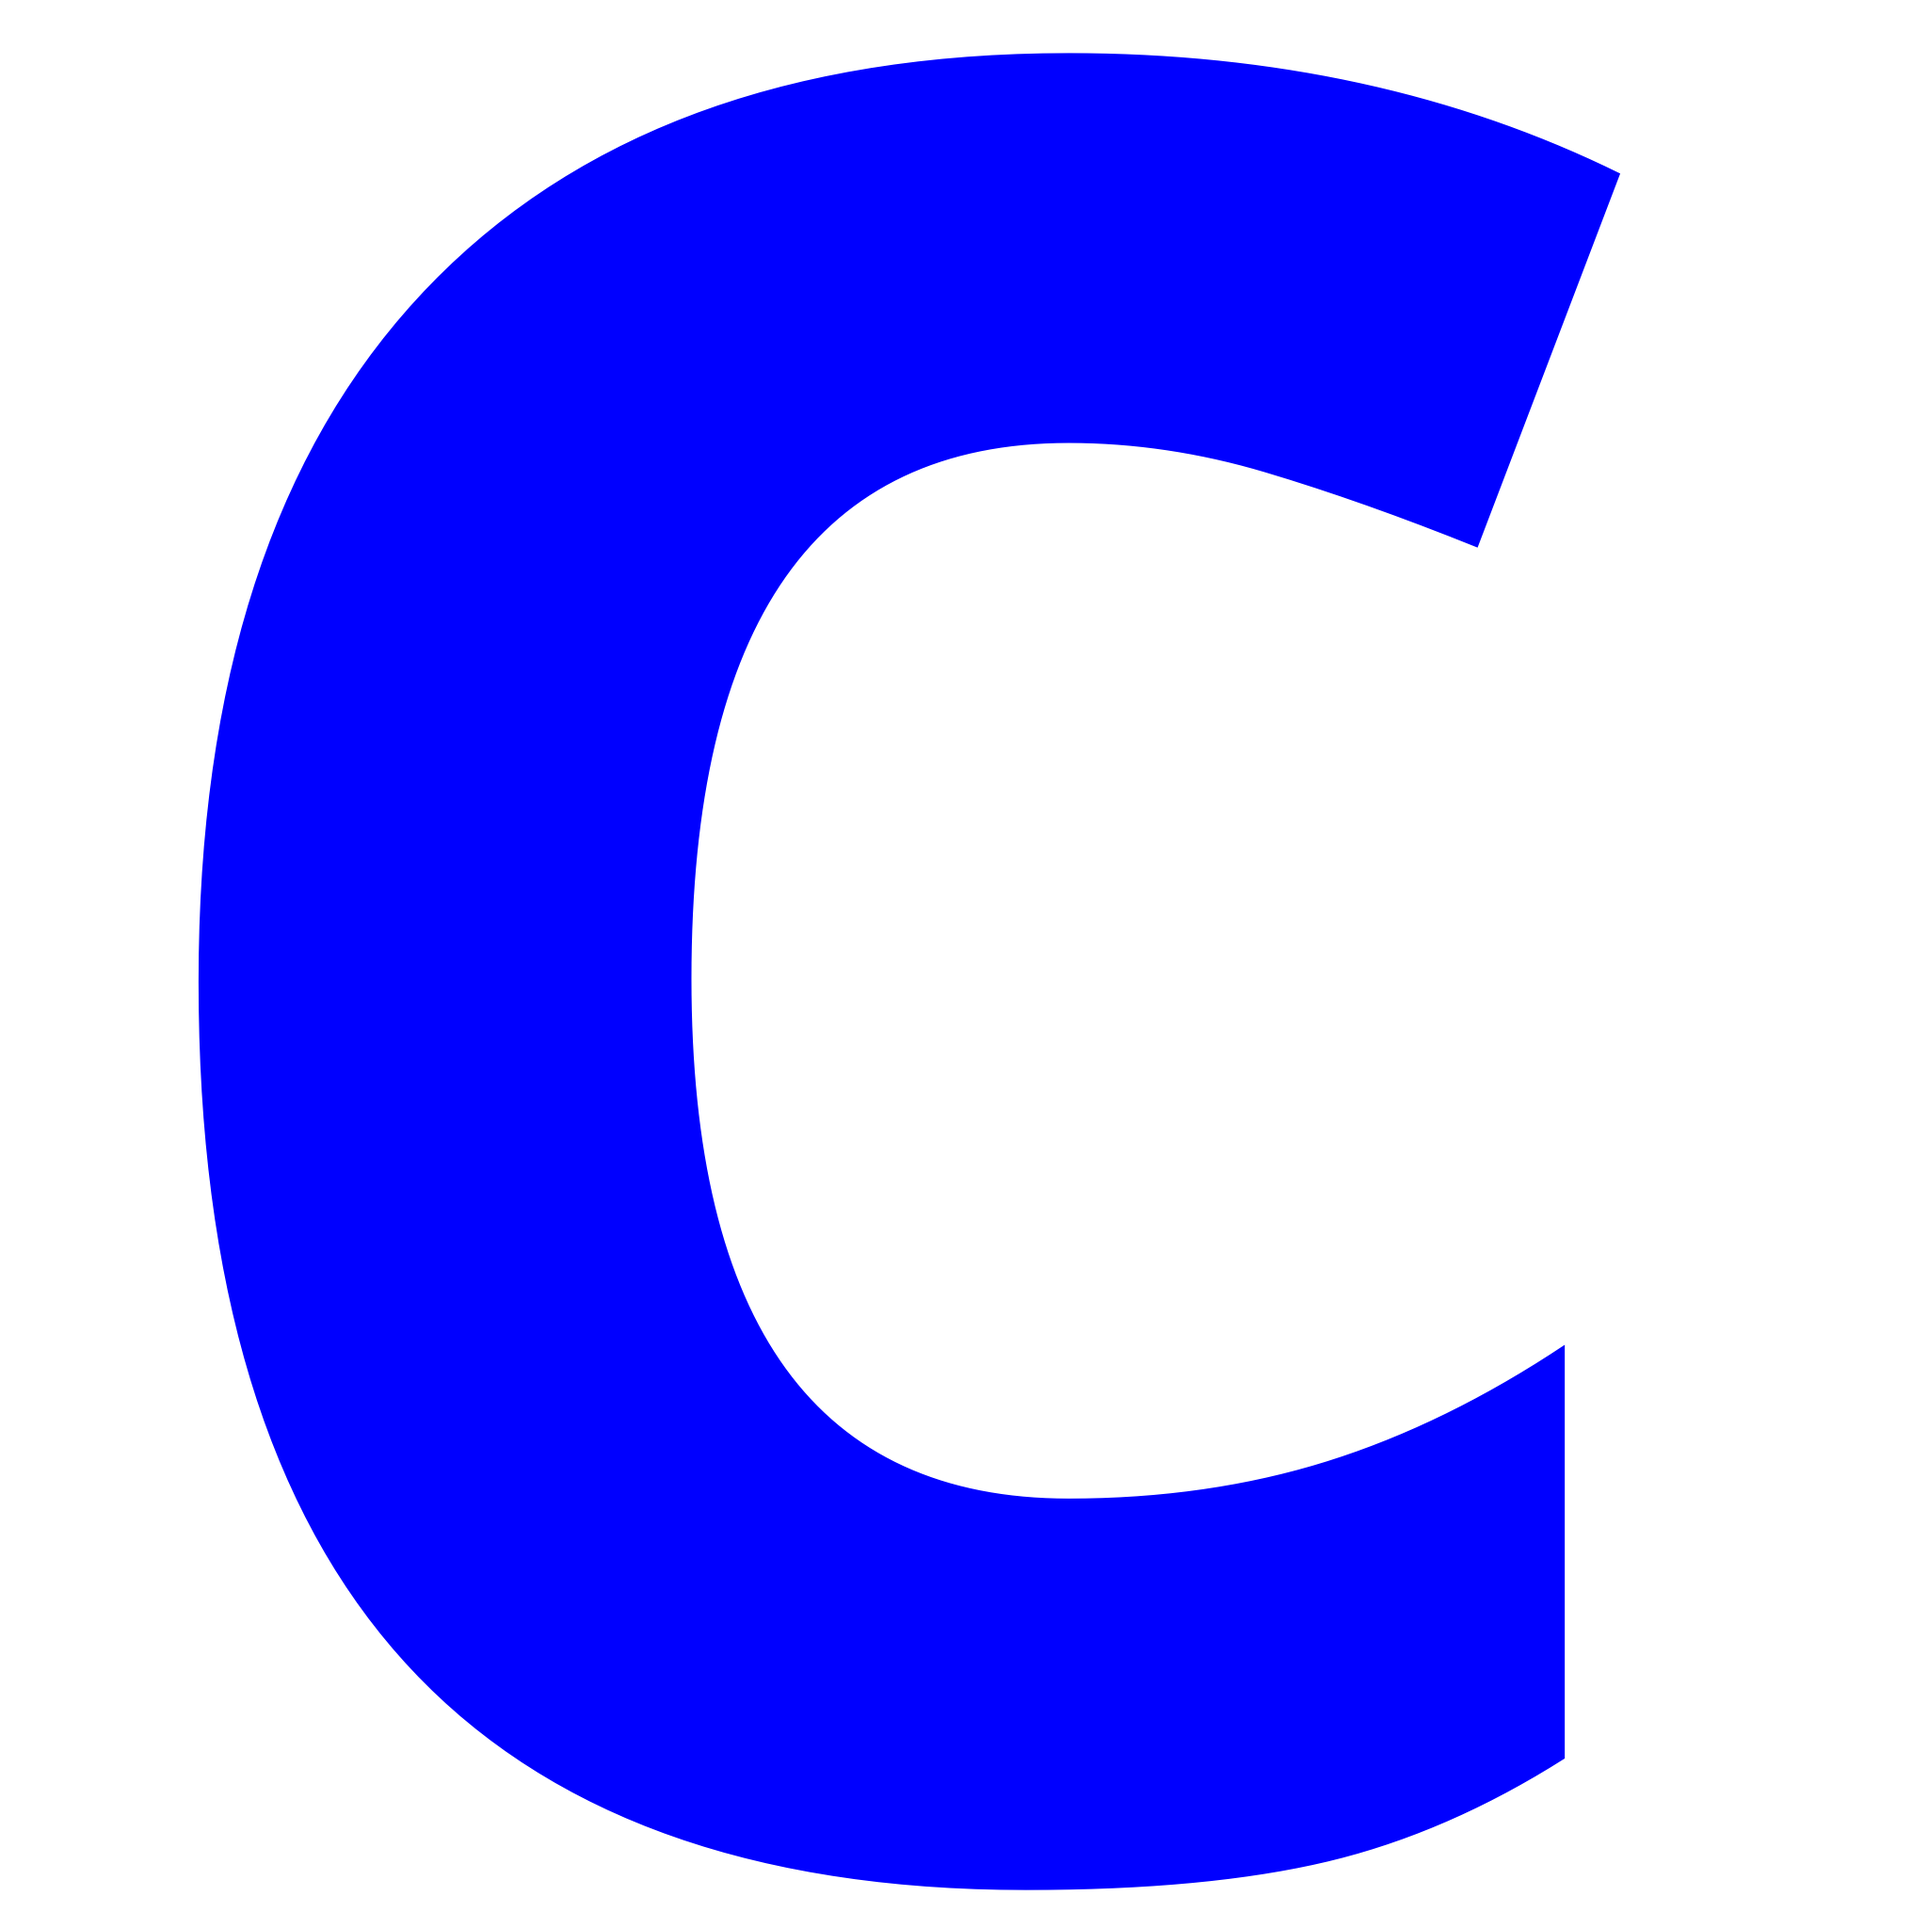
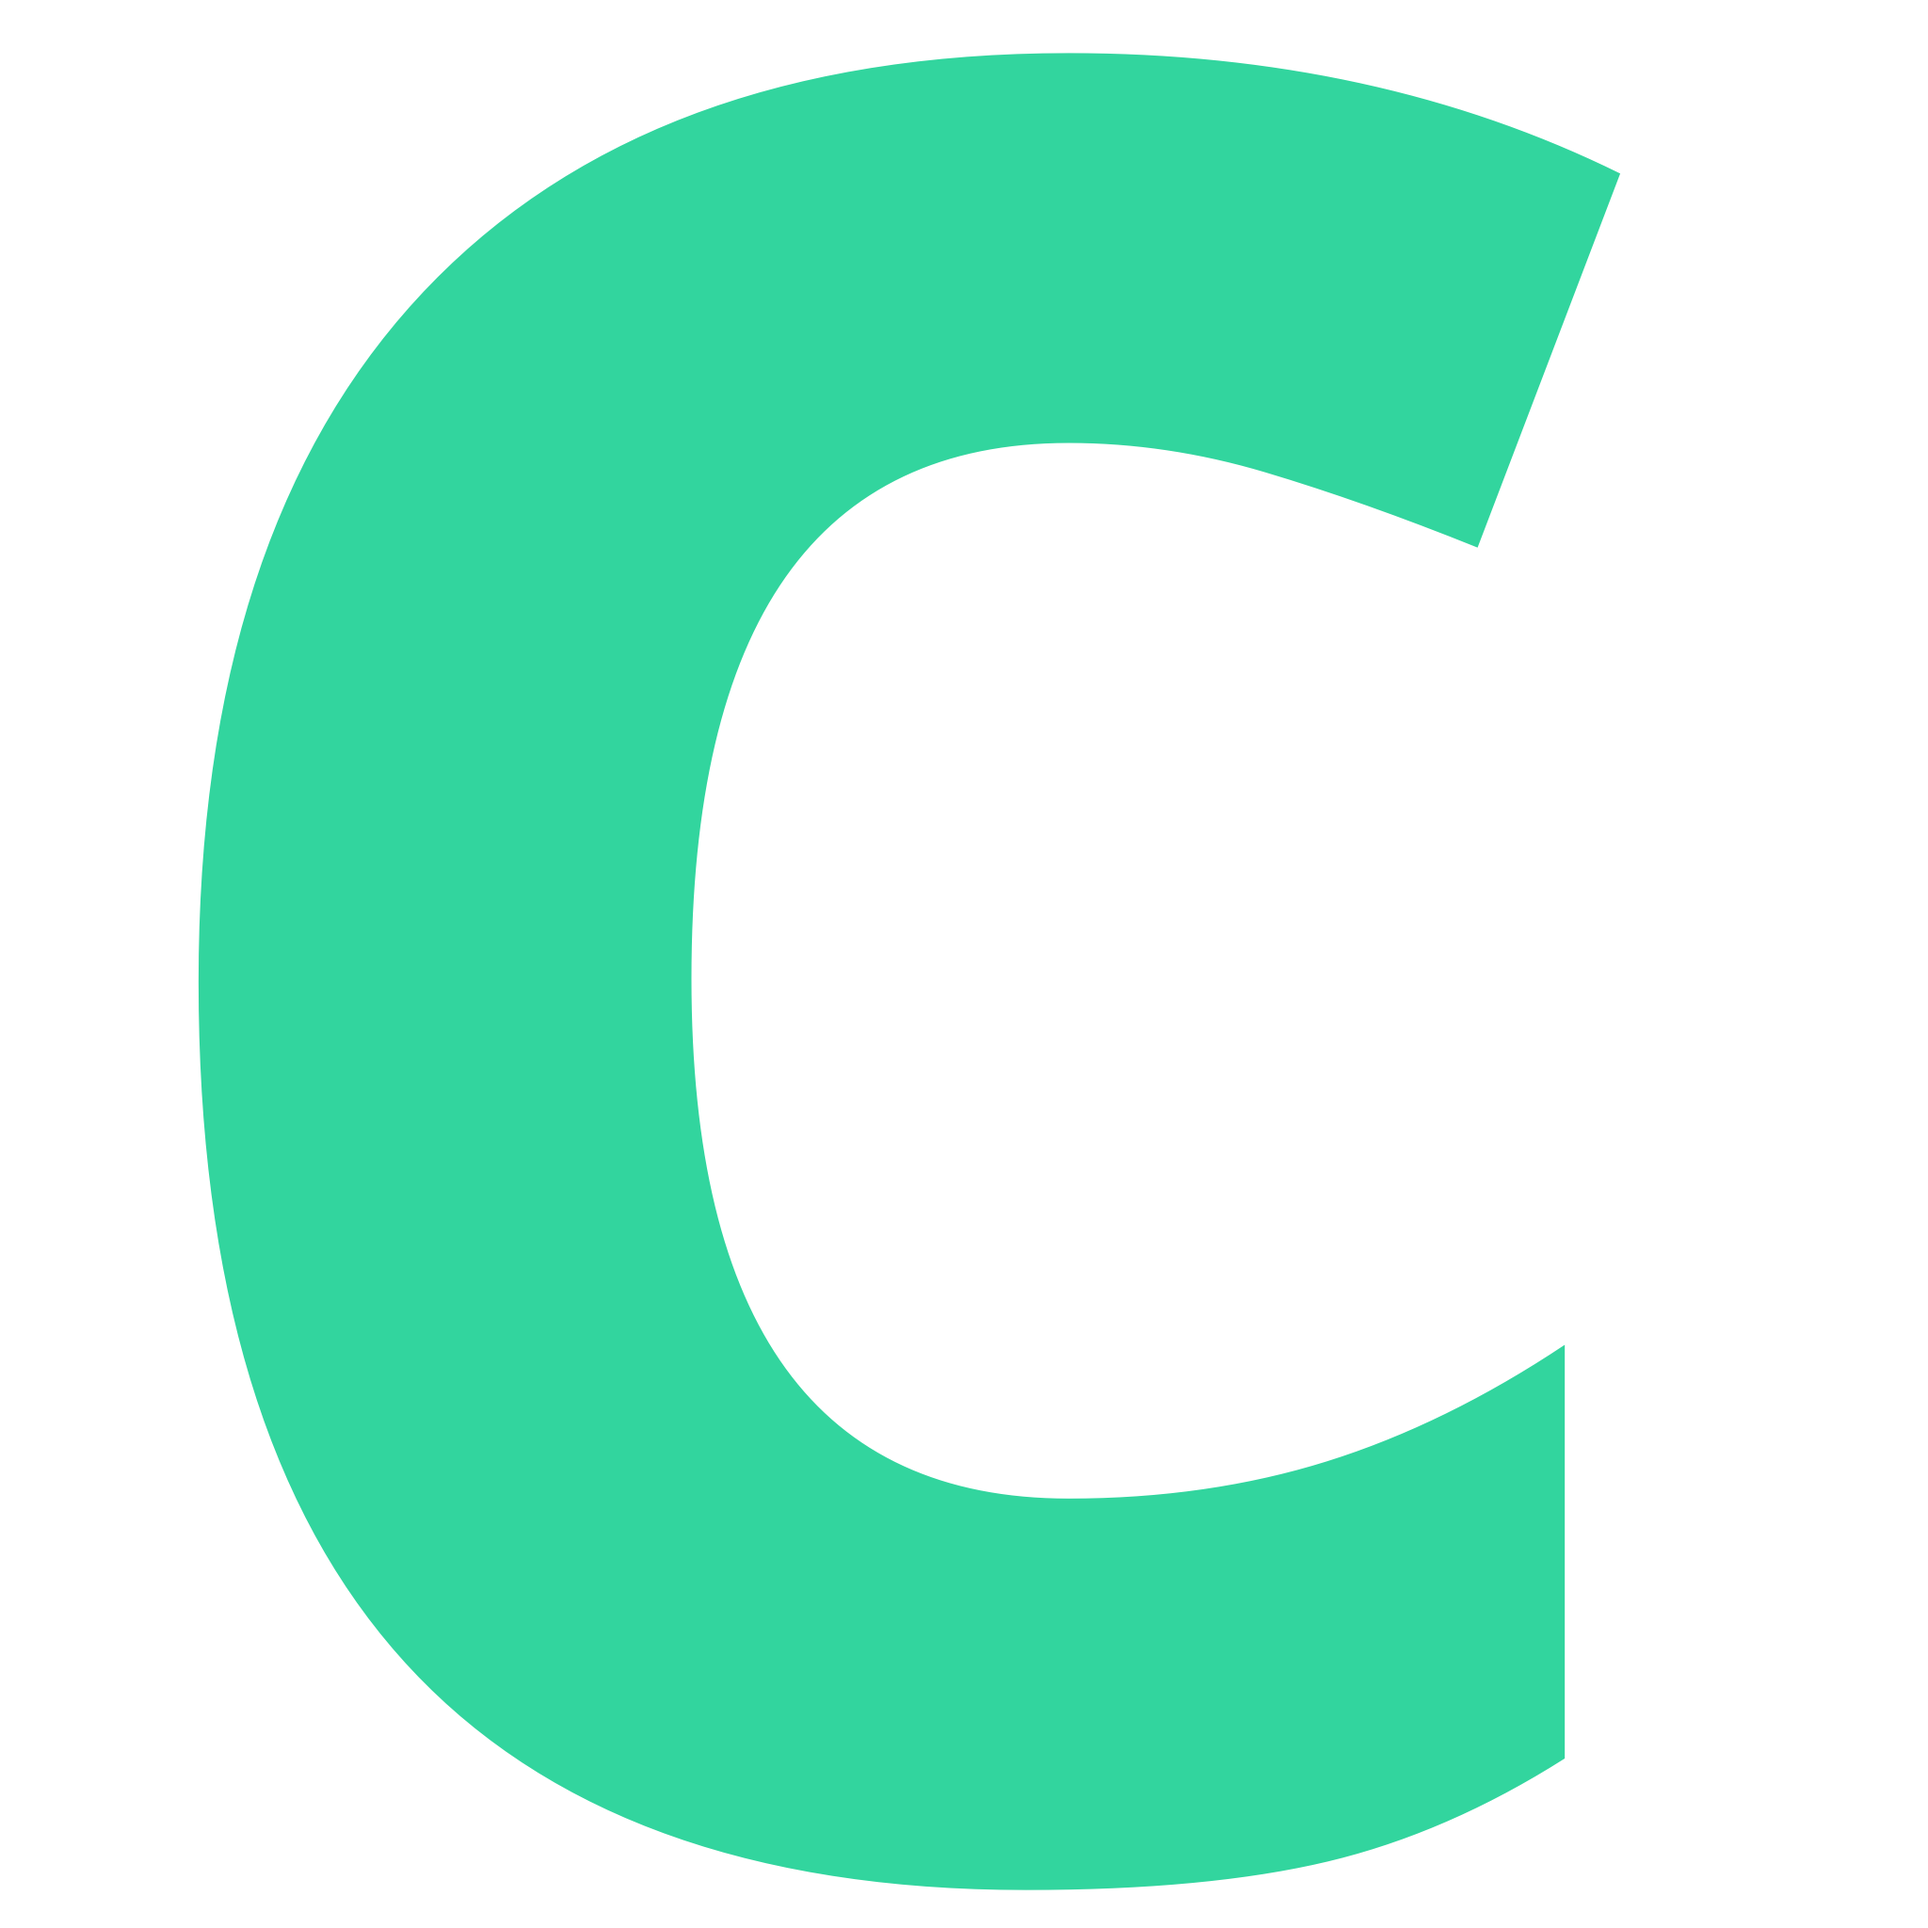
Basic start

diff --git a/src/ApplicationRoot.tsx b/src/ApplicationRoot.tsx
@@ -1,13 +1,37 @@
 import React from 'react';
+import { Logo } from './components/Logo/index';
+import styled, { keyframes } from 'react-emotion';
+
+const white = keyframes`
+  0% {
+    background: #fff;
+  }
+  100% {
+    background: #fff;
+  }
+`
+
+const Background = styled.div`
+  animation: ${white} 1s step-end;
+  background: #32d59e;
+  min-height: 100vh;
+  overflow: auto;
+  font-family: "Roboto Condensed", sans-serif;
+`;
+
+const Tagline = styled.div`
+  color: #3278D5;
+  text-align: center;
+  font-size: 2rem;
+`;
 
 export class Application extends React.Component {
-
   render() {
-    return (
-      <div>
-        <h1>consume</h1>
-        <h1>social drinking games</h1>
-      </div>
-    );
+    return <Background>
+        <h1>
+          <Logo />
+        </h1>
+        <Tagline>social drinking games</Tagline>
+      </Background>;
   }
 }

diff --git a/src/components/Logo/index.tsx b/src/components/Logo/index.tsx
@@ -1,0 +1,38 @@
+import React from 'react';
+import LogoSVG from './logo.svg';
+import styled, { keyframes } from 'react-emotion';
+
+const dance = keyframes`
+  0% {
+    color: #32D59E;
+  }
+  25% {
+    color: #D53232;
+  }
+  50% {
+    color: #A132D5;
+  }
+  75% {
+    color: #3278D5;
+  }
+  100% {
+    color: #32D59E;
+  }
+`;
+
+const LogoContainer = styled.div`
+  animation ${dance} 1s step-end;
+  color: #ffff;
+  text-align: center;
+  padding-top: 1rem;
+`;
+
+function Logo() {
+  return (
+    <LogoContainer>
+      <LogoSVG />
+    </LogoContainer>
+  );
+}
+
+export { Logo };

diff --git a/src/d/svg.d.ts b/src/d/svg.d.ts
@@ -1,0 +1,4 @@
+declare module "*.svg" {
+  const value: Any;
+  export = value;
+}
